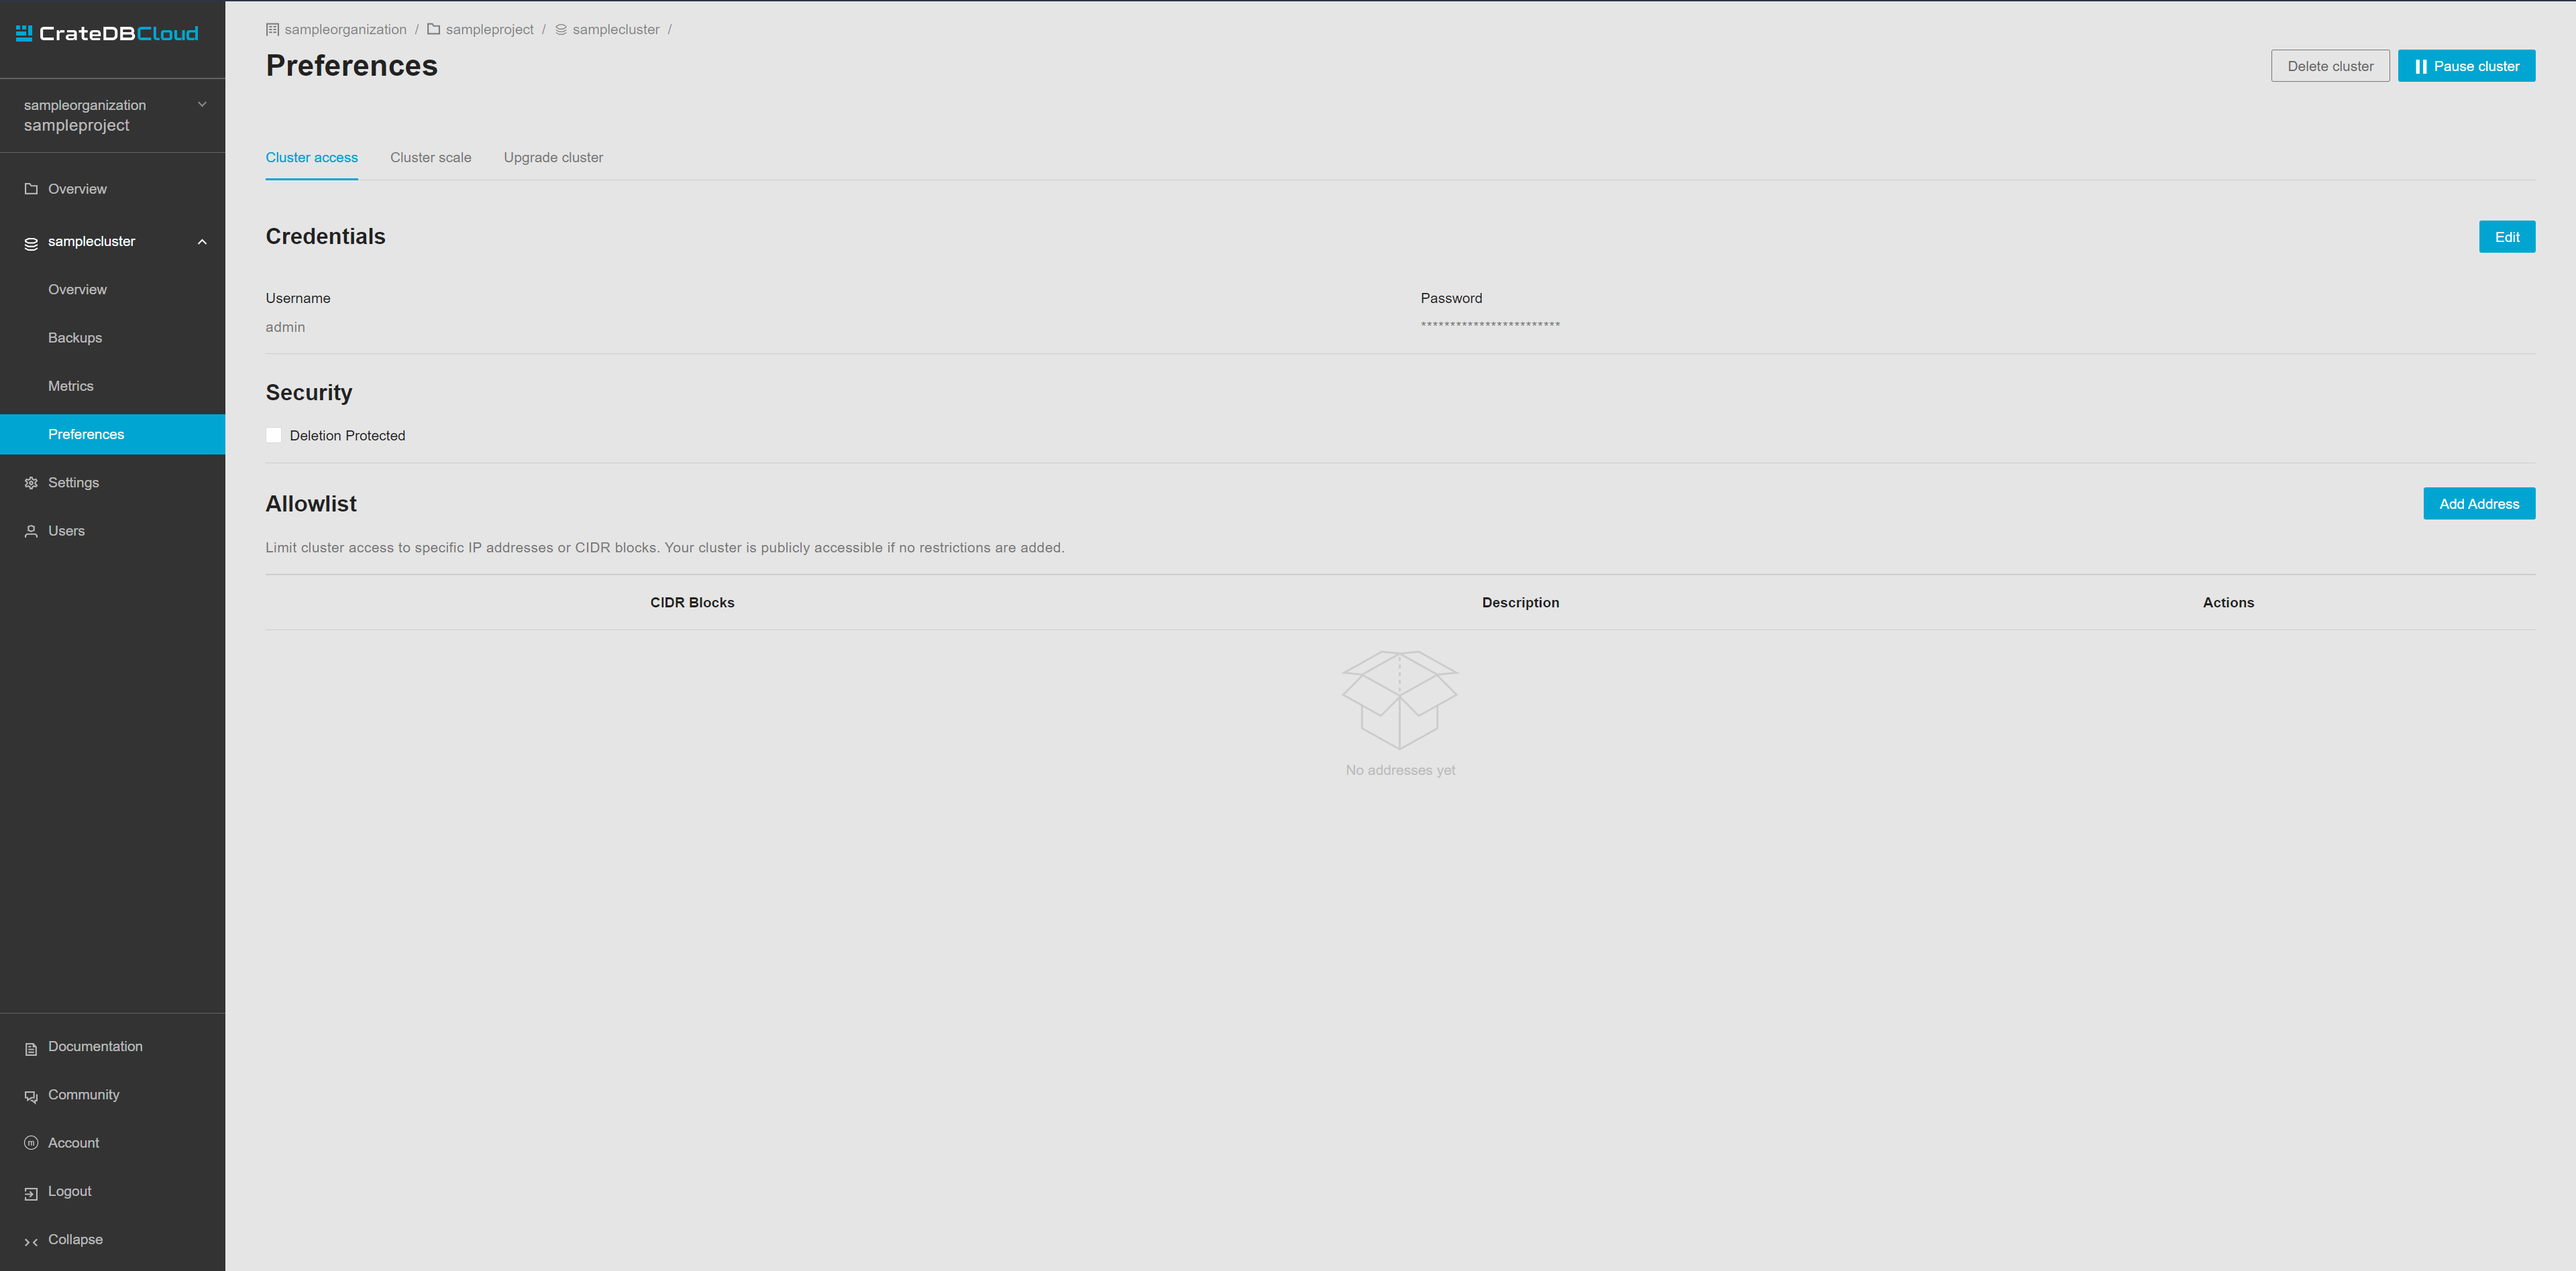
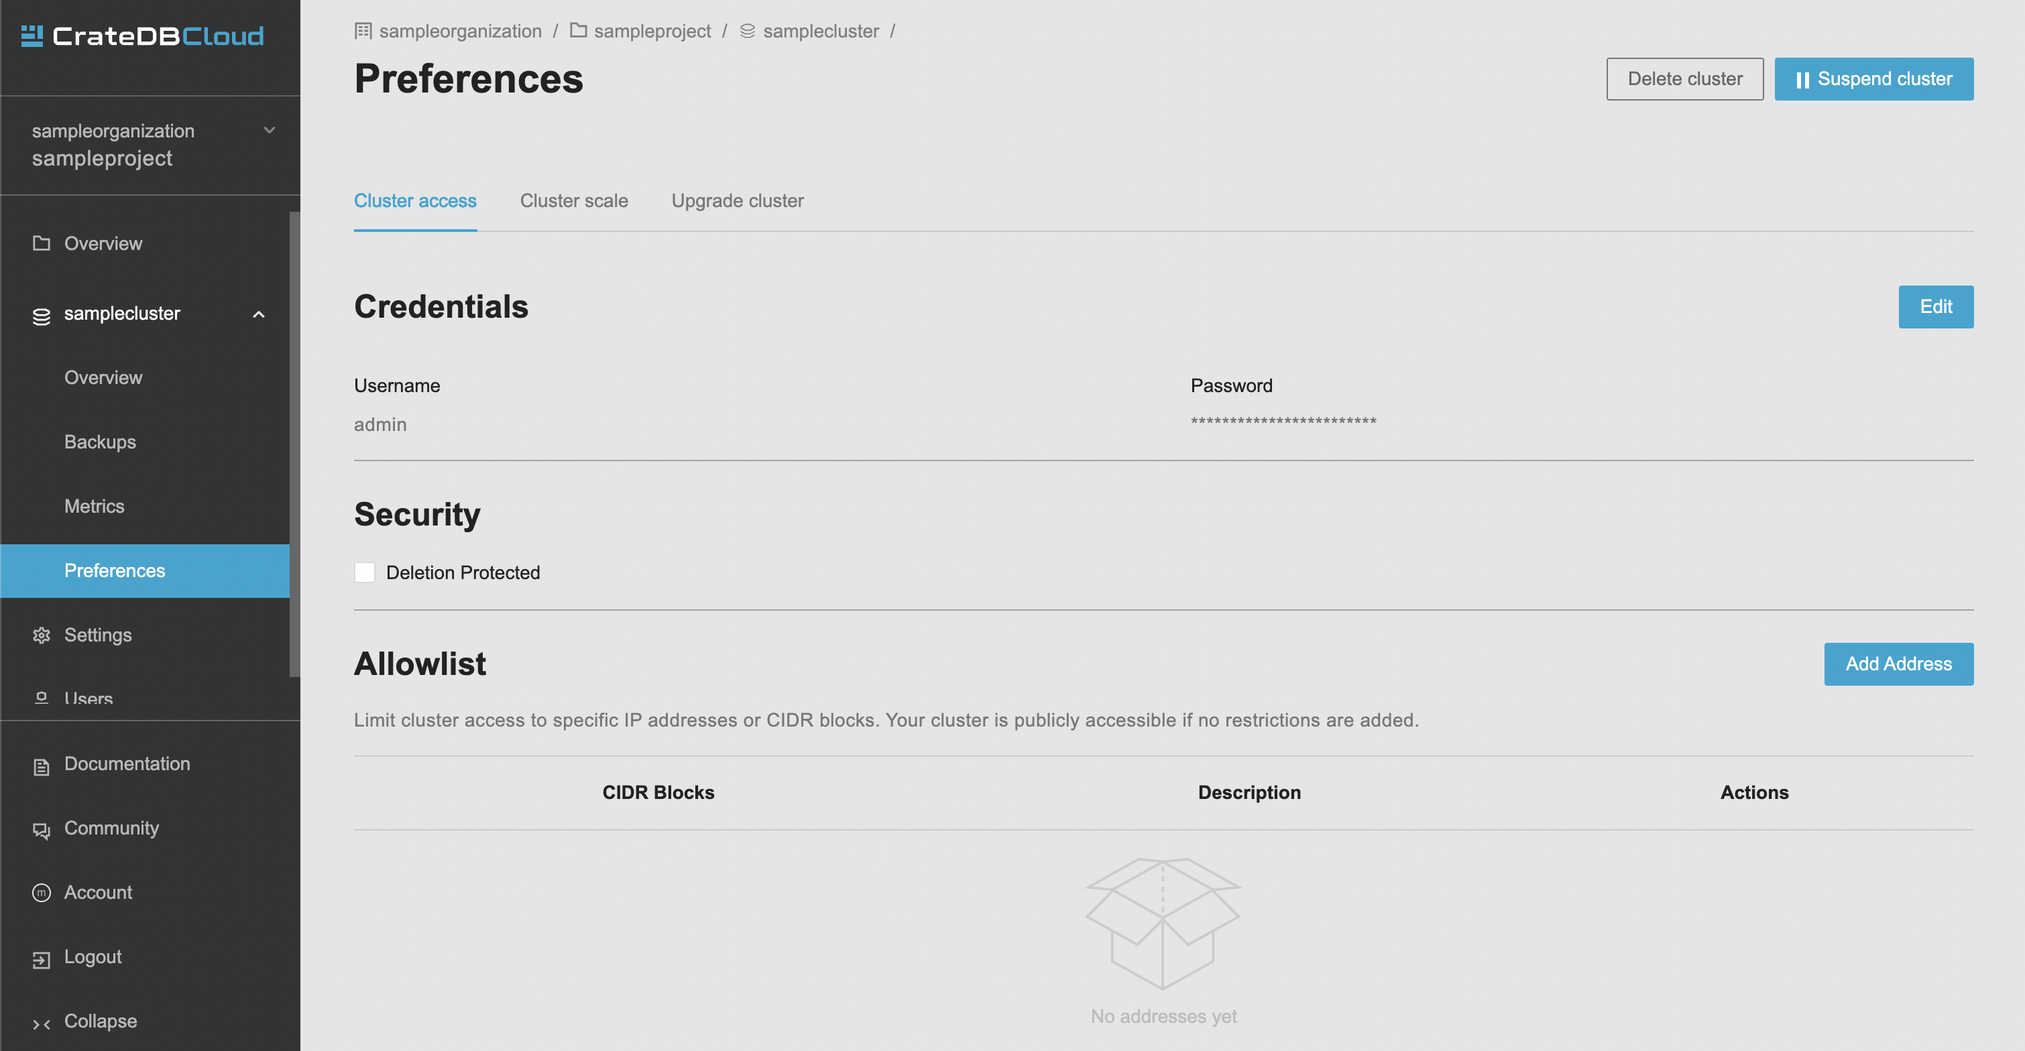
Added documentation on cluster suspension (#61)
* Added documentation on cluster suspension

diff --git a/docs/suspend-cluster.rst b/docs/suspend-cluster.rst
@@ -1,0 +1,88 @@
+.. _suspend-cluster:
+
+=================
+Suspend a cluster
+=================
+
+This guide will provide a quick overview of how to suspend your cluster using
+the CrateDB Cloud Console. For the purposes of this guide, it is assumed that
+you have a cluster up and running and can access the Console. If not, please
+refer to the :ref:`tutorial on how to deploy a cluster for the first time
+<cloud-tutorials:cluster-deployment>`.
+
+.. rubric:: Table of contents
+
+.. contents::
+   :local:
+
+
+.. _what-is-suspension:
+
+What is cluster suspension
+==========================
+
+Cluster suspension is a feature that enables you to temporarily pause your
+cluster while retaining all its data. An example situation might be that the
+project you're working on has been put on hold. The cost of running a cluster  
+is split into two parts: **Compute** and **Storage**. The benefit here is that
+while the cluster is suspended, you are only charged for the storage.
+
+
+.. _how-to-suspend-a-cluster:
+
+Suspend a cluster
+=================
+
+To suspend a cluster you must navigate to the Preferences page of a given
+cluster, in the left-hand menu. In the top right there is a *Suspend cluster*
+button.
+
+.. image:: _assets/img/cluster-access.png
+   :alt: Cloud Console cluster access preferences
+
+After pressing it, a pop-up notification will appear. After confirming it, your
+cluster will be suspended.
+
+.. image:: _assets/img/suspend-confirm.png
+   :alt: Cloud Console cluster suspend confirm
+
+.. NOTE::
+
+    Confirmation of suspension is displayed in the top part of the CrateDB
+    Cloud console until the cluster is resumed.
+
+     .. image:: _assets/img/suspend-notification.png
+        :alt: Cloud Console cluster suspension notification
+
+
+.. _how-to-resume-a-cluster:
+
+Resume a cluster
+================
+
+To resume your cluster, simply press the "Go to *Preferences* to resume
+cluster" link in the top bar, or navigate to the Cluster Preferences page
+manually.
+
+After pressing the *Resume cluster* button in the top right, your cluster will
+be resumed.
+
+.. image:: _assets/img/cluster-resume.png
+   :alt: Cloud Console resume cluster
+
+
+.. _additional-info:
+
+Important things to know
+========================
+
+- To suspend a cluster, you must be a Project Admin.
+
+- You can suspend and resume clusters at any time.
+
+- While your cluster is suspended, you will still be billed for the storage and
+  the billing cycle is unaffected.
+
+- Cluster backups do not expire while a cluster is suspended.
+
+- The Admin UI of a cluster is unavailable while the cluster is suspended.

diff --git a/docs/index.rst b/docs/index.rst
@@ -41,6 +41,7 @@ documentation for :ref:`Croud <cloud-cli:index>`, the CLI for CrateDB Cloud.
     create-project
     add-users
     scale-cluster
+    suspend-cluster
     delete-cluster
     snapshot
     visualize-data-with-grafana
